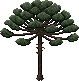
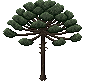
Put the wind in the trees
A shader slides each row of a tree sideways, the more the higher it
is, so trunks stay rooted while crowns lean and come back as the gusts
pass across the forest. The drawings get a margin to sway into.

diff --git a/src/world/scenery.ts b/src/world/scenery.ts
@@ -1,4 +1,5 @@
 import type Phaser from 'phaser';
+import { blow } from '../fx/wind';
 import type { Footprint } from './footprint';
 import { plantTrees } from './trees';
 import { zoneAt, type WorldMap } from './zones';
@@ -28,10 +29,25 @@ export function loadScenery(scene: Phaser.Scene): void {
 /** The shadow a drawing casts, and where in it the foot of the thing stands, as shares of its size. */
 interface Shadow { key: string; footX: number; footY: number }
 
+// A drawing the other way round, made once. The wind slides a drawing's rows
+// one way, so a tree is turned by drawing it turned, not by showing it turned.
+function mirrored(scene: Phaser.Scene, name: string): string {
+  const key = `${name}:mirrored`;
+  if (!scene.textures.exists(key)) {
+    const source = scene.textures.get(name).getSourceImage() as HTMLImageElement;
+    const tex = scene.textures.createCanvas(key, source.width, source.height)!;
+    const g = tex.getContext();
+    g.setTransform(-1, 0, 0, 1, source.width, 0);
+    g.drawImage(source, 0, 0);
+    tex.refresh();
+  }
+  return key;
+}
+
 // Lays a drawing's shape over on the ground, once; every tree drawn from it shares the picture.
-function castShadow(scene: Phaser.Scene, name: string, flipped: boolean): Shadow {
-  const key = `shadow:${name}:${flipped ? 'flipped' : 'drawn'}`;
-  const source = scene.textures.get(name).getSourceImage() as HTMLImageElement;
+function castShadow(scene: Phaser.Scene, name: string): Shadow {
+  const key = `shadow:${name}`;
+  const source = scene.textures.get(name).getSourceImage() as HTMLImageElement | HTMLCanvasElement;
   const w = source.width, h = source.height;
   const reach = LIGHT.across * h, drop = LIGHT.down * h;
   const width = Math.ceil(w + Math.abs(reach)), height = Math.ceil(Math.abs(drop)) + 1;
@@ -42,8 +58,7 @@ function castShadow(scene: Phaser.Scene, name: string, flipped: boolean): Shadow
     const g = tex.getContext();
     g.imageSmoothingEnabled = false;
     // A pixel `up` above the foot and `out` from the trunk lands at foot + out + up * light.
-    const side = flipped ? -1 : 1;
-    g.setTransform(side, 0, -LIGHT.across, -LIGHT.down, footX - side * w / 2 + reach, footY + drop);
+    g.setTransform(1, 0, -LIGHT.across, -LIGHT.down, footX - w / 2 + reach, footY + drop);
     g.drawImage(source, 0, 0);
     g.setTransform(1, 0, 0, 1, 0, 0);
     g.globalCompositeOperation = 'source-in';
@@ -56,7 +71,7 @@ function castShadow(scene: Phaser.Scene, name: string, flipped: boolean): Shadow
 
 /**
  * A map's trees, stood on it: each in front of whatever is further up the
- * screen, with its shadow on the ground under everything.
+ * screen, with its shadow on the ground under everything, and the wind in it.
  */
 export class Forest {
   readonly trees: Phaser.GameObjects.Image[] = [];
@@ -66,7 +81,8 @@ export class Forest {
 
   constructor(scene: Phaser.Scene, map: WorldMap) {
     for (const tree of plantTrees(map, TREES.length)) {
-      const name = TREES[tree.kind], shadow = castShadow(scene, name, tree.flipped);
+      const name = tree.flipped ? mirrored(scene, TREES[tree.kind]) : TREES[tree.kind];
+      const shadow = castShadow(scene, name);
       this.shadows.push(scene.add.image(tree.x, tree.y, shadow.key)
         .setOrigin(shadow.footX, shadow.footY)
         .setScale(tree.size)
@@ -75,13 +91,13 @@ export class Forest {
       this.trees.push(scene.add.image(tree.x, tree.y, name)
         .setOrigin(0.5, 1)
         .setScale(tree.size)
-        .setFlipX(tree.flipped)
         .setDepth(tree.y));
       if (zoneAt(map, tree.x, tree.y)) {
         const hh = TRUNK.hh * tree.size;
         this.trunks.push({ x: tree.x, y: tree.y - hh, hw: TRUNK.hw * tree.size, hh });
       }
     }
+    blow(scene, this.trees);
   }
 
   /** Thins the trees whose crowns hide whoever stands at a spot, and fills the others in again. */

diff --git a/src/fx/wind.ts b/src/fx/wind.ts
@@ -1,0 +1,70 @@
+import Phaser from 'phaser';
+
+// Wind in the trees. A drawing given this is not moved: each row of it is
+// slid sideways by a whole number of its own pixels, the more the higher it
+// is, so a trunk stays rooted while its crown leans and comes back. The gusts
+// travel across the ground, so trees along their way lean one after another.
+// Every drawing given it must be the same size.
+const STRENGTH = 1.8;   // how far the very top is carried, in pixels of the drawing
+const fragShader = `
+#define SHADER_NAME WIND_FS
+precision mediump float;
+
+uniform sampler2D uMainSampler;
+uniform float uTime;     // seconds
+uniform float uLeft;     // where the left edge of the screen is on the ground, in sprite pixels
+uniform float uZoom;     // screen pixels per sprite pixel
+uniform vec2 uSize;      // the drawing, in its own pixels
+uniform float uStrength;
+
+varying vec2 outTexCoord;
+varying float outTintEffect;
+varying vec4 outTint;
+
+void main() {
+  float up = 1.0 - outTexCoord.y; // 0 at the foot, 1 at the top
+  float across = uLeft + gl_FragCoord.x / uZoom;
+  // A slow lean with a quicker shiver over it, both passing from left to right.
+  float gust = sin(across * 0.012 - uTime * 1.3) + 0.5 * sin(across * 0.031 - uTime * 2.9);
+  float slid = floor(gust * uStrength * up * up + 0.5);
+  vec2 uv = vec2(outTexCoord.x - slid / uSize.x, outTexCoord.y);
+
+  vec4 texture = texture2D(uMainSampler, uv);
+  // Nothing is carried in from beyond the drawing's edge.
+  if (uv.x < 0.0 || uv.x > 1.0) texture = vec4(0.0);
+  gl_FragColor = texture * vec4(outTint.bgr * outTint.a, outTint.a);
+}
+`;
+
+export class Wind extends Phaser.Renderer.WebGL.Pipelines.SinglePipeline {
+  /** The camera the trees are seen through. */
+  lens?: Phaser.Cameras.Scene2D.Camera;
+  /** The size every drawing given the wind has, in its own pixels. */
+  drawn = { width: 1, height: 1 };
+
+  constructor(game: Phaser.Game) {
+    super({ game, name: 'Wind', fragShader });
+  }
+
+  onPreRender(): void {
+    this.set1f('uTime', this.game.loop.time / 1000);
+    this.set1f('uLeft', this.lens?.worldView.x ?? 0);
+    this.set1f('uZoom', this.lens?.zoom ?? 1);
+    this.set2f('uSize', this.drawn.width, this.drawn.height);
+    this.set1f('uStrength', STRENGTH);
+  }
+}
+
+/**
+ * Sets the wind on some drawings, all of one size, seen through a scene's
+ * camera. Without WebGL they simply stand still.
+ */
+export function blow(scene: Phaser.Scene, things: Phaser.GameObjects.Image[]): void {
+  if (scene.renderer.type !== Phaser.WEBGL || !things.length) return;
+  const pipelines = (scene.renderer as Phaser.Renderer.WebGL.WebGLRenderer).pipelines;
+  if (!pipelines.has('Wind')) pipelines.add('Wind', new Wind(scene.game));
+  const wind = pipelines.get('Wind') as Wind;
+  wind.lens = scene.cameras.main;
+  wind.drawn = { width: things[0].width, height: things[0].height };
+  for (const thing of things) thing.setPipeline('Wind');
+}

diff --git a/tools/build_forest_trees.py b/tools/build_forest_trees.py
@@ -2,9 +2,11 @@
 """Cuts the forest's trees out of their concepts, ready for the game.
 
 Each is trimmed to what is drawn, so its trunk stands on the bottom row and in
-the middle. They stay at the size SpriteCook drew them (about 80 pixels): the
-game enlarges them, twice for a tree standing in the forest and three times
-for the wall of trees at its edge.
+the middle, and then given a margin at the sides and the top for its crown to
+sway into. All come out the same size: the wind that moves them counts on it.
+They stay at the scale SpriteCook drew them (about 80 pixels): the game
+enlarges them, twice for a tree standing in the forest and three times for
+the wall of trees at its edge.
 
     python3 tools/build_forest_trees.py
 """
@@ -14,9 +16,16 @@ from PIL import Image
 ROOT = Path(__file__).resolve().parent.parent / 'assets' / 'bosque'
 # The concept each tree comes from.
 TREES = {'araucaria_a': 'araucaria_e', 'araucaria_b': 'araucaria_f', 'araucaria_c': 'araucaria_g'}
+MARGIN = 3  # pixels of room at each side
 
+cut = {}
 for name, concept in TREES.items():
     tree = Image.open(ROOT / 'concept' / f'{concept}.png').convert('RGBA')
-    tree = tree.crop(tree.getbbox())
-    tree.save(ROOT / f'{name}.png')
-    print(name, tree.size)
+    cut[name] = tree.crop(tree.getbbox())
+width = max(tree.width for tree in cut.values()) + 2 * MARGIN
+height = max(tree.height for tree in cut.values())
+for name, tree in cut.items():
+    padded = Image.new('RGBA', (width, height))
+    padded.paste(tree, ((width - tree.width) // 2, height - tree.height))
+    padded.save(ROOT / f'{name}.png')
+    print(name, padded.size)
